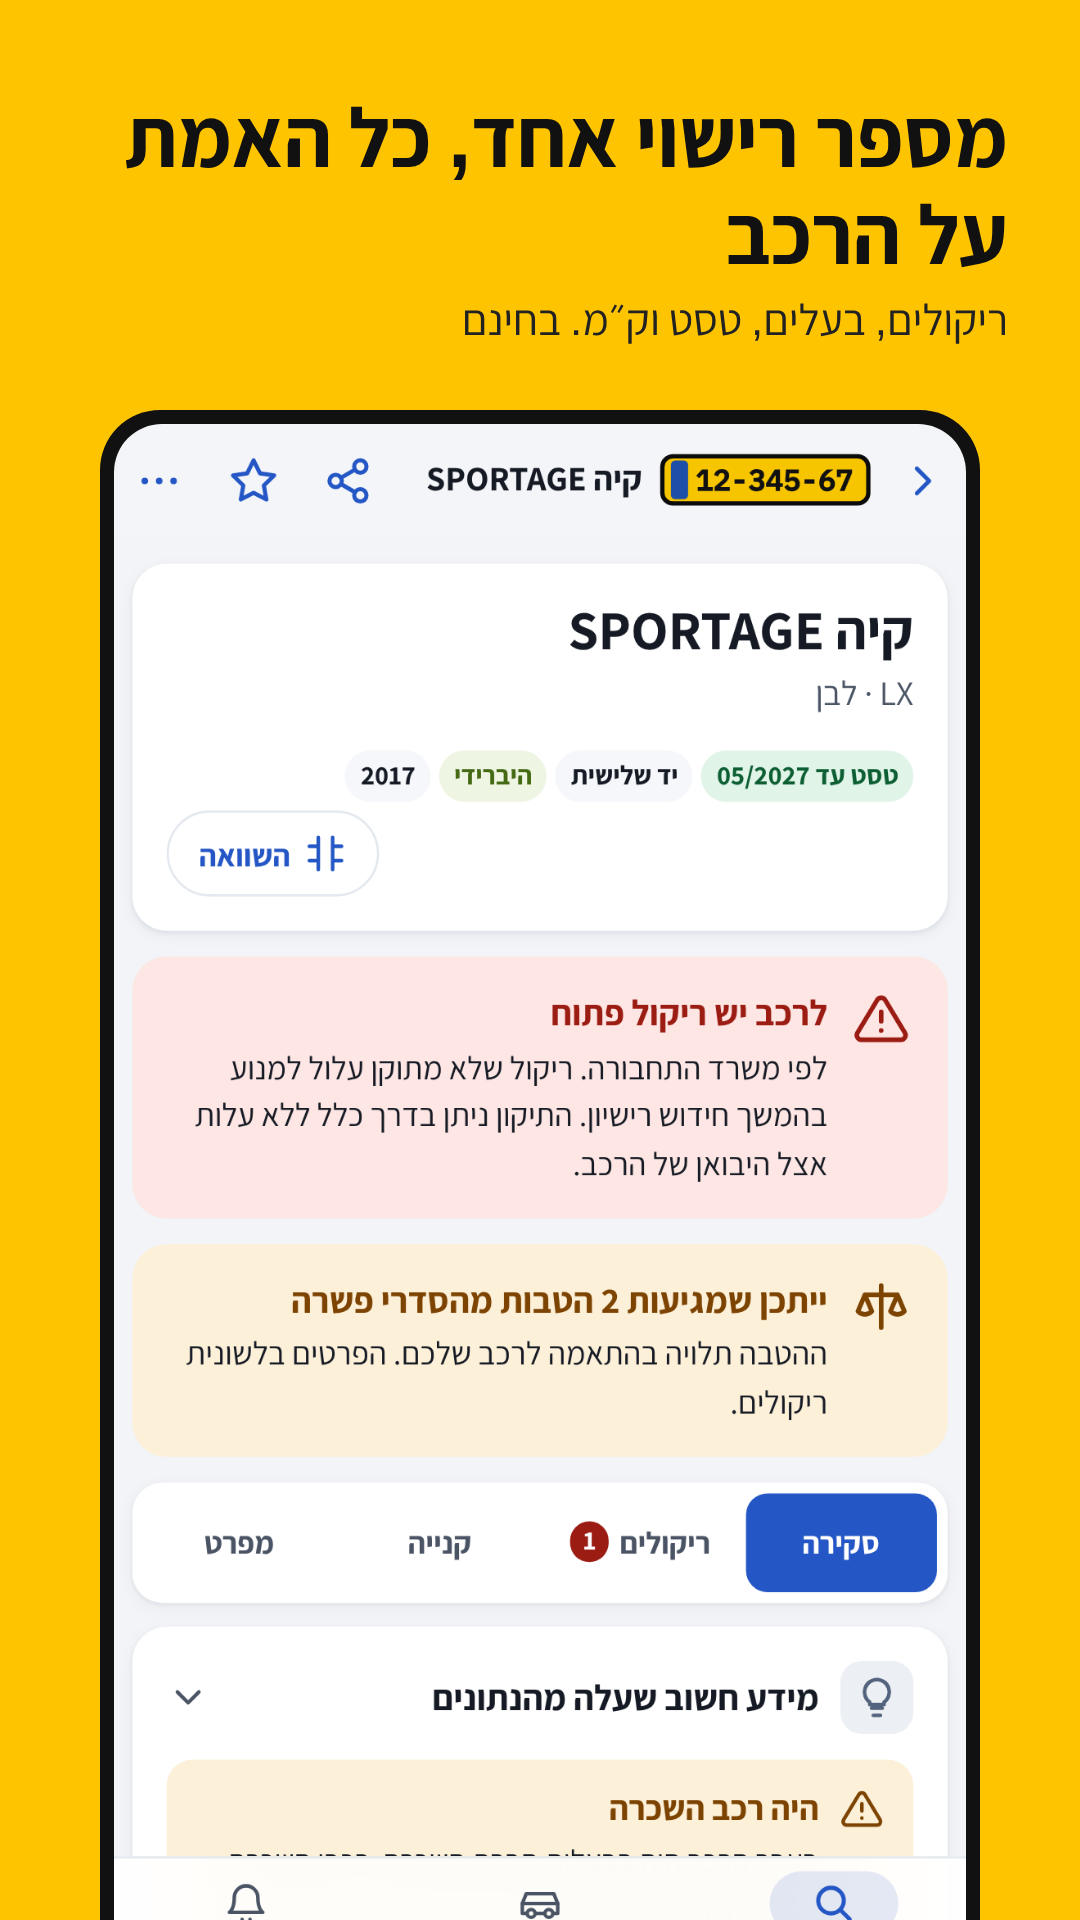
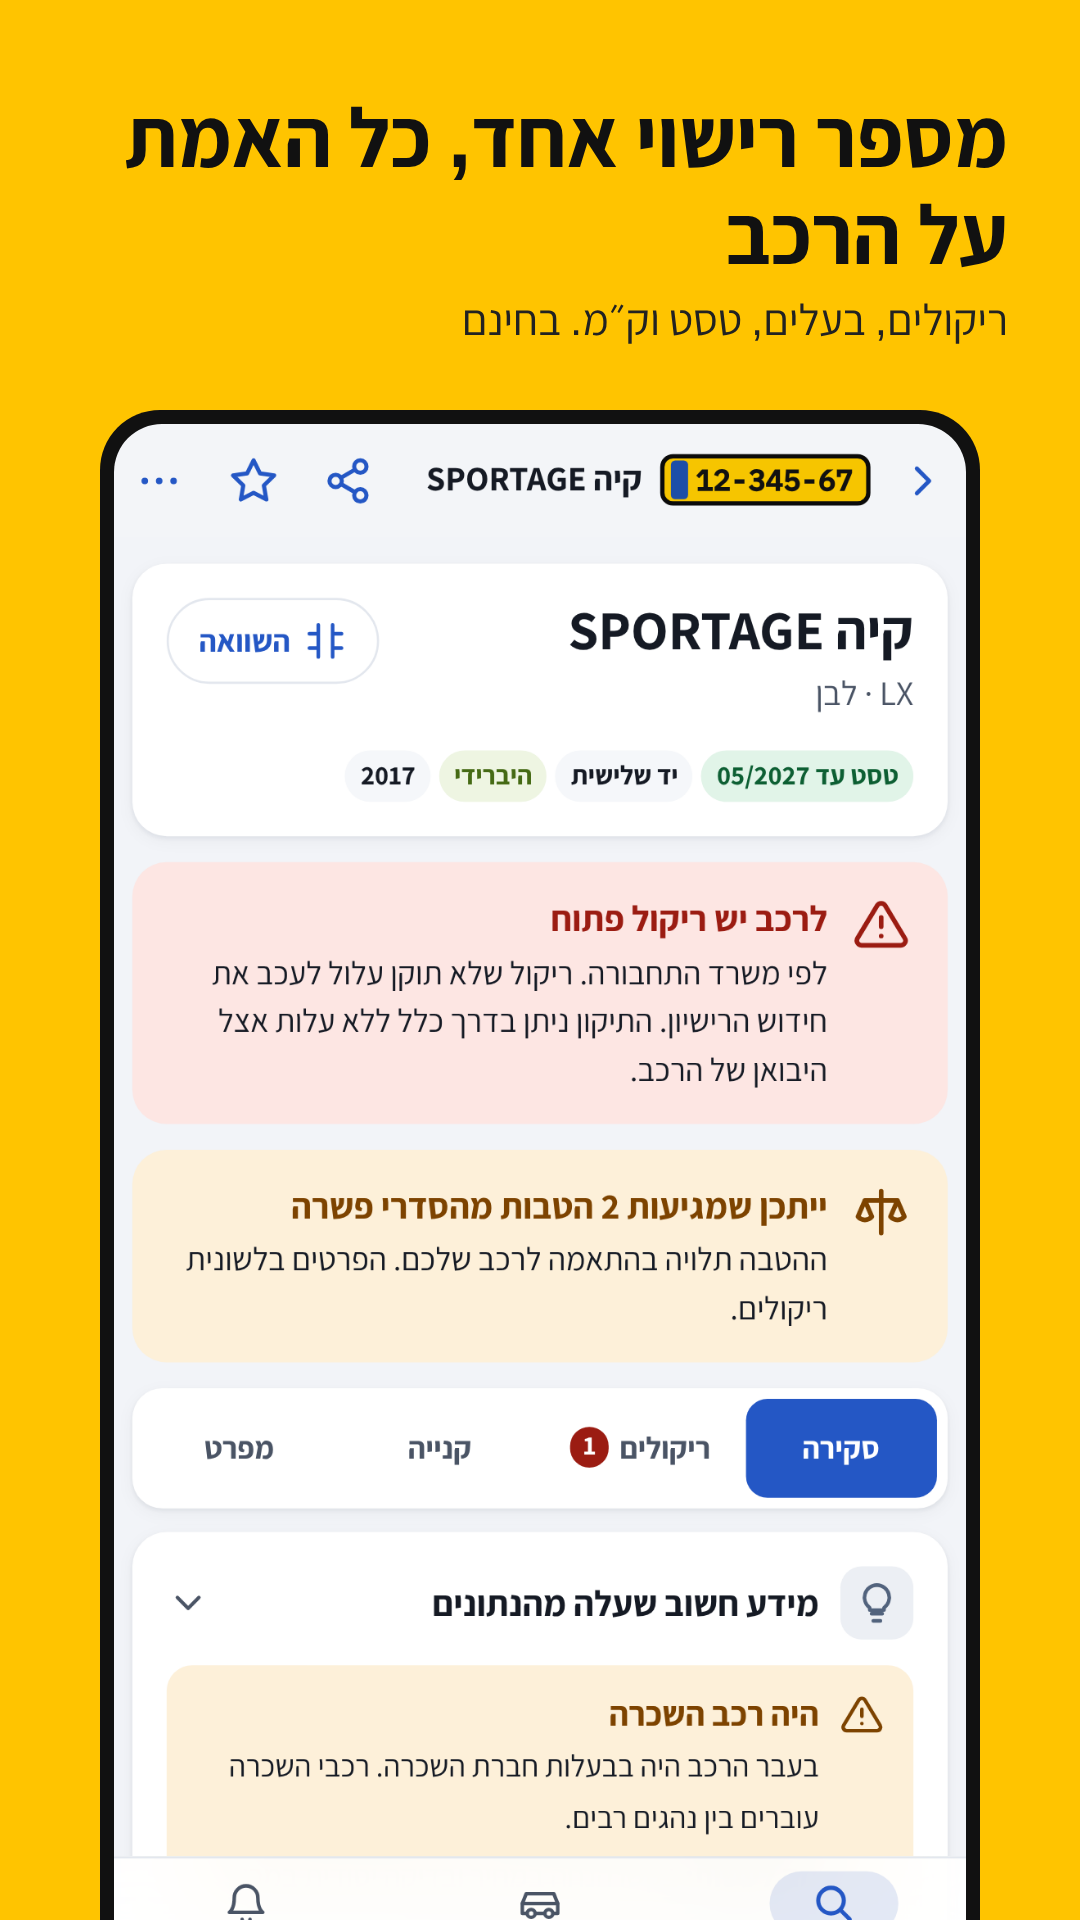
1.38.3: version, shell and release notes; store screenshots 01 to 06 from this build
APP_VERSION and the service worker shell are 1.38.3. The notes (458 of 500 characters, read by play-alpha.mjs's own parser)
name what a person on 1.38.2 gets: "+" in הרכבים שלי saves the next car checked, "פתחו לו תיק" opens the file, the nickname on
the car page, dark from the first frame with the system bars in the page's colours, Back on home keeps the app in the background,
the bottom bar steps aside for the keyboard, the buy tab in a buyer's order with clearer texts, a new car not yet in the register,
and compare beside the car's name with the model's name under recent cars.

Store screenshots 01 to 06 retaken with tools/shots138.mjs on this tree (01: compare beside the name and the recall banner's new
wording; 02 to 06: wording and dates); 07 and 08 are unchanged. play-listing check, ga4-admin selftest, app-wiring and ui-lint pass.

Claude-Session: https://claude.ai/code/session_01LKfYhAriPrTUsYhA84cyur

Changed region(s): [[0.1222, 0.4375, 0.8861, 0.9688], [0.1833, 0.3125, 0.3361, 0.3438]]

diff --git a/sw.js b/sw.js
@@ -1,7 +1,7 @@
 /* Luchit app shell for the web version. Stale-while-revalidate for the page, cache-first for icons.
    Lookups (data.gov.il, JSON data files, model pages) are never cached here, so numbers are always fresh.
    Bump SHELL with APP_VERSION at each release: the old cache is deleted on activate. */
-const SHELL = "luchit-shell-1.38.2";
+const SHELL = "luchit-shell-1.38.3";
 const DATA = "luchit-data-";   // the page's own catalogue cache (index.html cachedJson): never deleted here
 const PRECACHE = ["/", "/icon-192.png", "/icon-512.png", "/apple-touch-icon.png", "/manifest.json", "/lib/fonts/assistant-hebrew-400-normal.woff2", "/lib/fonts/assistant-hebrew-700-normal.woff2", "/lib/fonts/assistant-latin-400-normal.woff2", "/lib/fonts/assistant-latin-700-normal.woff2", "/lib/fonts/ibm-plex-mono-latin-500-normal.woff2"];
 

diff --git a/index.html b/index.html
@@ -1141,7 +1141,7 @@ body:has(.cfab) main{padding-bottom:calc(140px + env(safe-area-inset-bottom,0px)
 <script>
 "use strict";
 /*! © 2026 Dudu Sabag. All rights reserved. */
-const APP_VERSION = "1.38.2";
+const APP_VERSION = "1.38.3";
 /* a phone whose page storage is still empty here is a new install (an app update keeps the storage): read before anything is stored */
 const FRESH = (() => { try { return localStorage.length === 0; } catch { return false; } })();
 const SITE = "https://luchit.app/";
